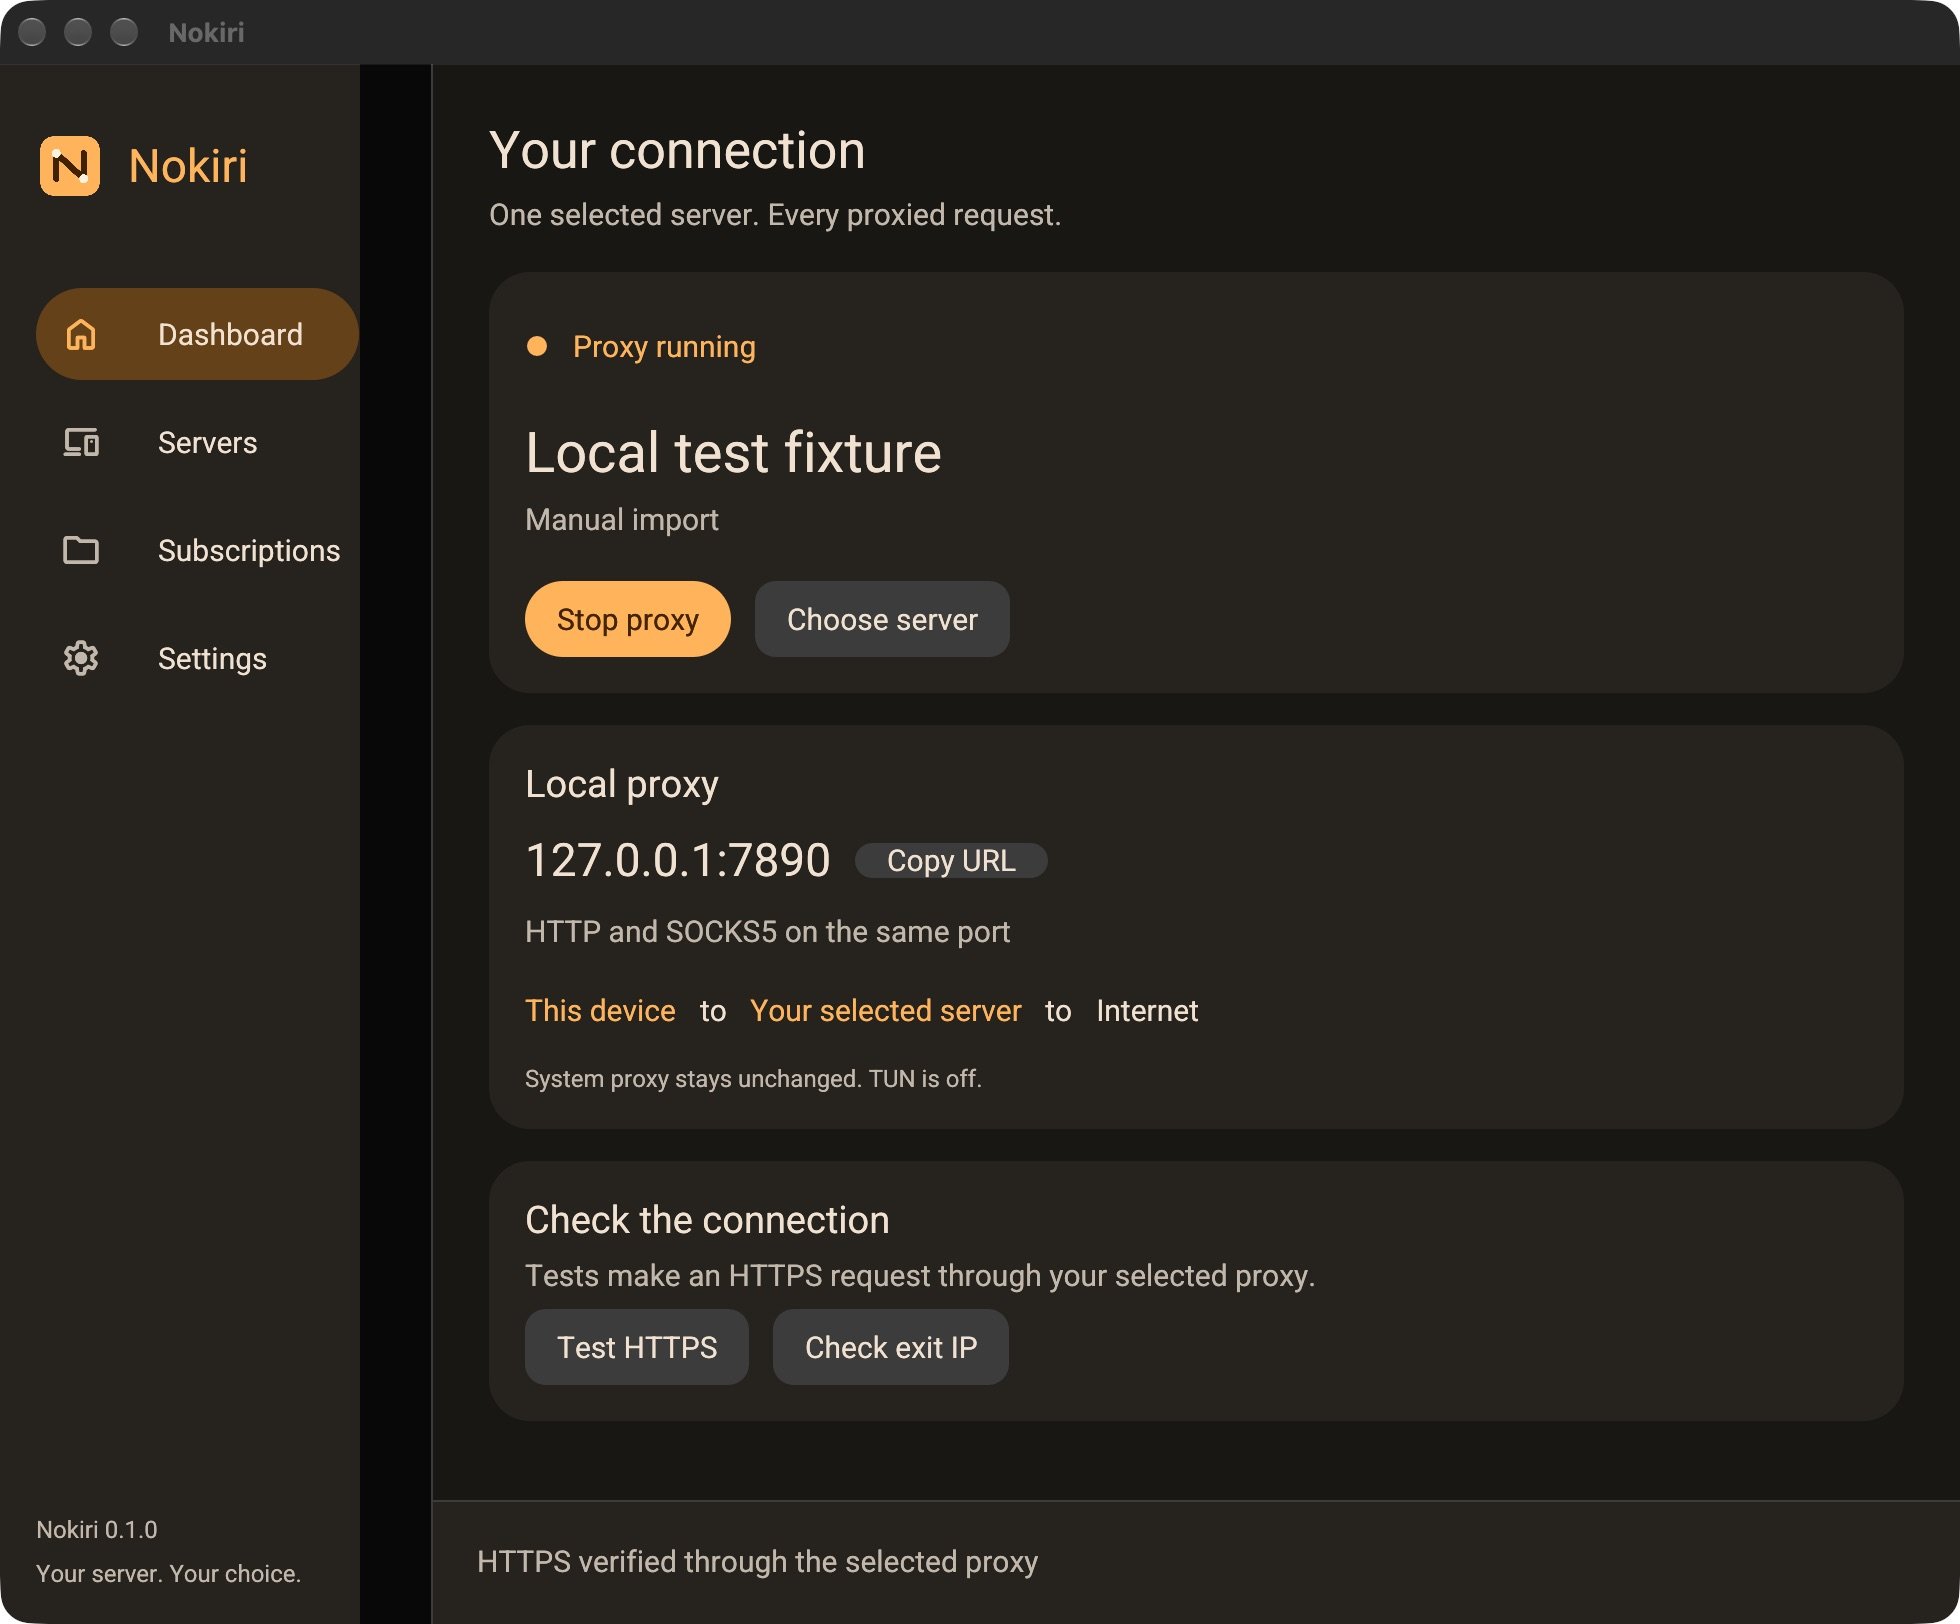
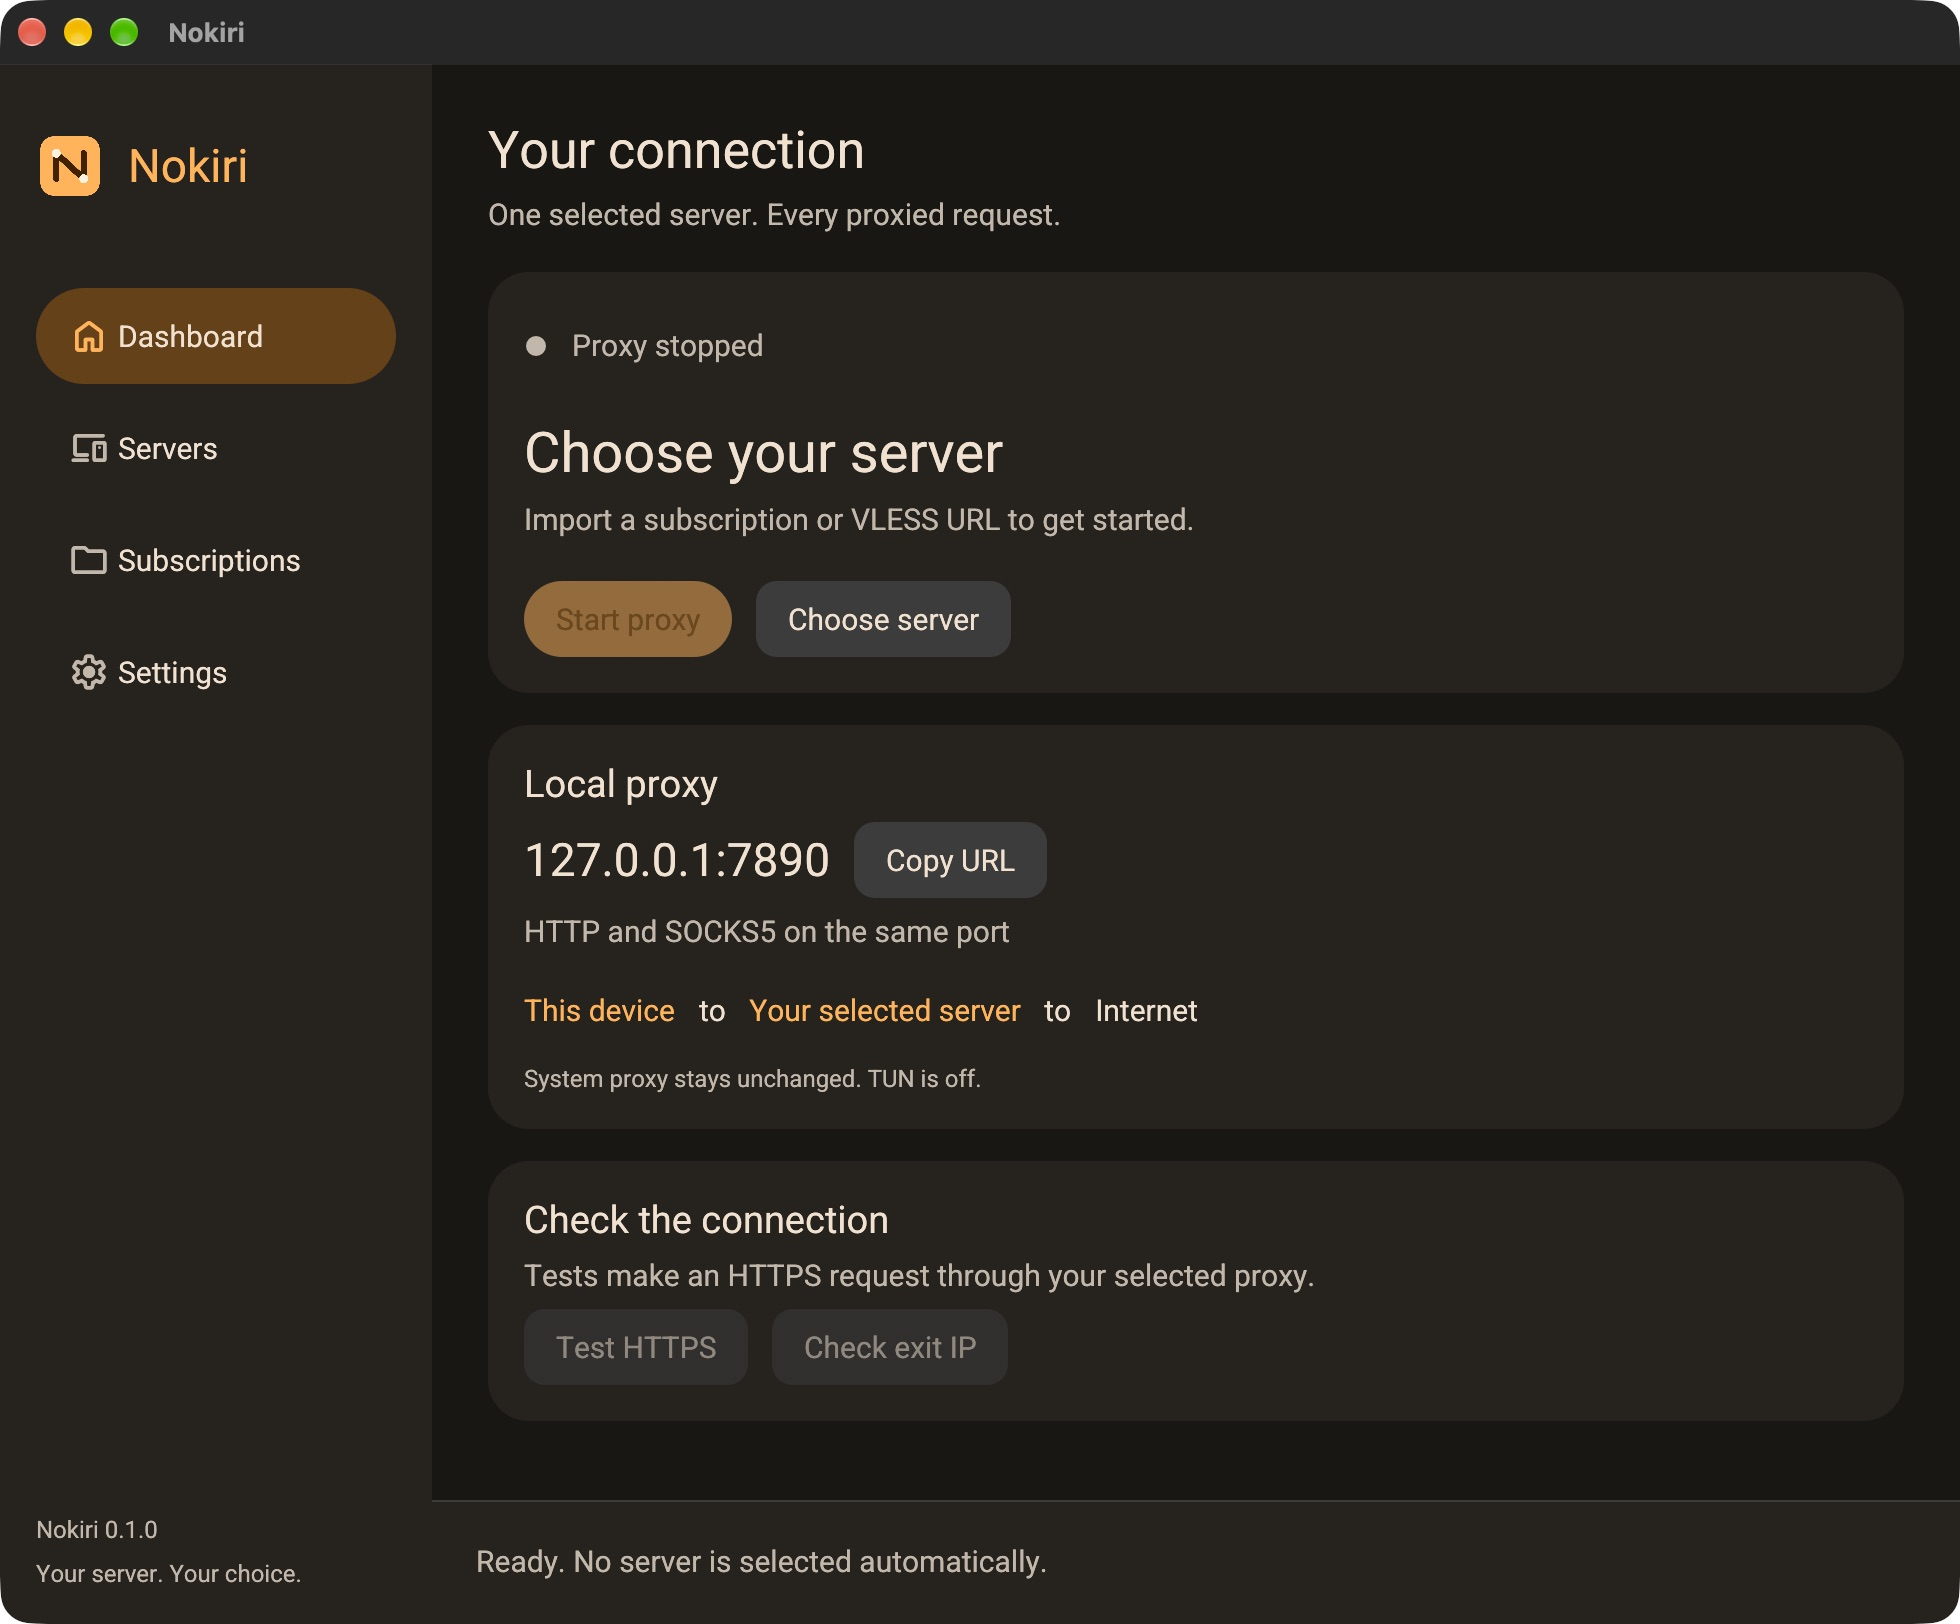
docs: record desktop design review and update screenshots

diff --git a/docs/design-review.md b/docs/design-review.md
@@ -1,0 +1,45 @@
+# Desktop design review
+
+Reviewed and corrected on 2026-11-15. Scope: all four egui pages, navigation,
+light/dark themes, populated and empty states, import forms, deletion and settings.
+The web-interface review checklist was applied only where it makes sense for a
+native application: focus, input labels, hit targets, feedback and overflow.
+
+| Finding | Correction |
+| --- | --- |
+| Navigation had an outer selected frame and an inner selectable label with separate hover feedback | One native egui button per row, with shared icon/text/background hit area |
+| Sidebar content reserved about 215.75 px while the panel clipped painting at 180 px | Fixed 216 px panel; bounded full-width buttons; no separator line or unpainted strip |
+| Icon clicks did not select a page | Entire row, including the icon and trailing space, selects the page |
+| Screen readers encountered private icon glyphs instead of clean navigation labels | Explicit labels and selected-state accessibility metadata |
+| Horizontal toolbars and nested server headings could exceed narrow content bounds | Wrapping toolbars, a bounded search field and directly wrapping server labels |
+| The primary button's fixed fill suppressed hover feedback | Explicit normal, hovered and pressed colors through egui's widget states |
+| Small action buttons had inconsistent hit target heights | Standard action buttons use the common interaction height |
+| Start was available without a valid selected server | Start is disabled while Choose server remains accessible |
+| An import was an ordinary window, and failed submission closed it and erased input | Modal form, inline error, retained input until success/cancel, bounded scrolling and explicit cancel |
+| Hidden pasted YAML could not be inspected intentionally | Explicit Show contents control, off by default; fields have accessible labels |
+| Settings checkboxes edited the saved snapshot and could be reset by asynchronous updates | Separate settings draft preserved across updates, saved only by Save settings |
+| Removal happened immediately | Confirmation modal with a cancel action before deletion is queued |
+
+## Verification
+
+Two regression tests failed before the navigation fix: the painted/reserved-width
+check measured 215.75 versus 180 px, and clicking the icon did not select its page.
+Both pass after the fix. Other UI tests cover:
+
+- All four pages in both themes at 720x560 and 980x780, with long server/source
+  names and bounded card geometry.
+- Settings drafts surviving status updates without modifying saved settings.
+- Failed imports keeping their input and showing the error inside the form.
+- Canceling removal without sending a delete action.
+
+`cargo test --locked`: 19 passed, 2 real-core tests intentionally ignored.
+`cargo fmt --all -- --check` and Clippy with warnings denied: passed.
+The two core/network integration tests were not rerun for this UI-only change.
+No engine or routing behavior was changed; Settings gained equality comparison.
+
+The rebuilt macOS .app was launched and checked directly. Verified icon clicks,
+selected-state accessibility values, keyboard Tab/Return activation, empty states,
+both palettes, import error retention, and Escape dismissal. Current screenshots
+are authentic first-launch views of this build, with no user credentials.
+
+A complete VoiceOver session and Linux desktop rendering were not checked.

diff --git a/README.md b/README.md
@@ -10,7 +10,7 @@
     <a href="assets/MIHOMO-LICENSE"><img src="https://img.shields.io/badge/Mihomo-GPL--3.0-blue" alt="Mihomo core GPL-3.0 license" /></a>
   </p>
   <p><a href="#installation">Install</a> · <a href="#usage">Use Nokiri</a> · <a href="#build-from-source">Build</a> · <a href="#security-and-privacy">Security</a></p>
-  <img src="docs/screenshots/dashboard-dark.png" width="860" alt="Nokiri's actual macOS dashboard with a local VLESS test fixture selected" />
+  <img src="docs/screenshots/dashboard-dark.png" width="860" alt="Nokiri's actual macOS dashboard before importing a server" />
 </div>
 
 Nokiri exposes one local HTTP/SOCKS5 endpoint and keeps your chosen server fixed.
@@ -196,6 +196,8 @@ UI icons are [Material Symbols](https://github.com/google/material-design-icons)
 (Apache-2.0). The repository presentation was inspired by
 [Purge](https://github.com/jithin-sabu/purge-app), with original text and assets.
 
-Screenshots show the implemented application using a local VLESS test fixture,
-not a supplied production subscription. No private endpoints or credentials are
-included. Light mode: [view screenshot](docs/screenshots/dashboard-light.png).
+Screenshots show the implemented application with an empty catalog. Functional
+proxy checks used local fixtures as documented in the validation record. No
+private endpoints or credentials are included. Light mode: [view screenshot](docs/screenshots/dashboard-light.png).
+
+The desktop layout and interaction follow-up is recorded in the [design review](docs/design-review.md).

diff --git a/docs/validation.md b/docs/validation.md
@@ -67,3 +67,13 @@ AccessKit, but a full VoiceOver audit was not performed.
 The temporary GUI fixture catalog was removed after verifying that it contained
 only the test server and no subscriptions. Nokiri and its test upstream were
 stopped cleanly; the application is ready for the user's own imports.
+
+## Desktop design follow-up
+
+The subsequent design review added six UI regression tests. The current ordinary
+suite passes 19 tests; the two real-core tests remain separately runnable and
+were not rerun for this UI-only change. Navigation clipping and icon-click tests
+failed before the fix and pass afterward. All pages were rendered at 720x560 and
+980x780 in both themes, including long names. See [design review](design-review.md)
+for findings and direct desktop checks. Current screenshots show the corrected
+first-launch UI with an empty catalog. The macOS app was rebuilt and launched.
